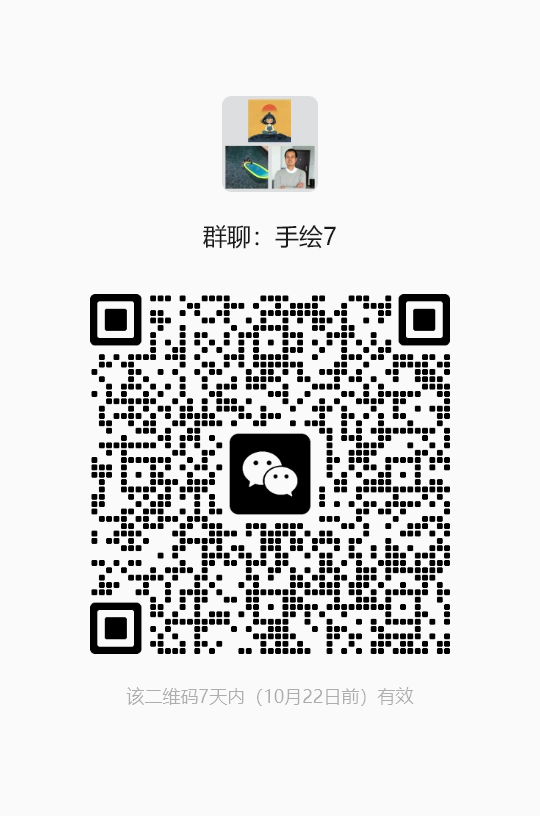
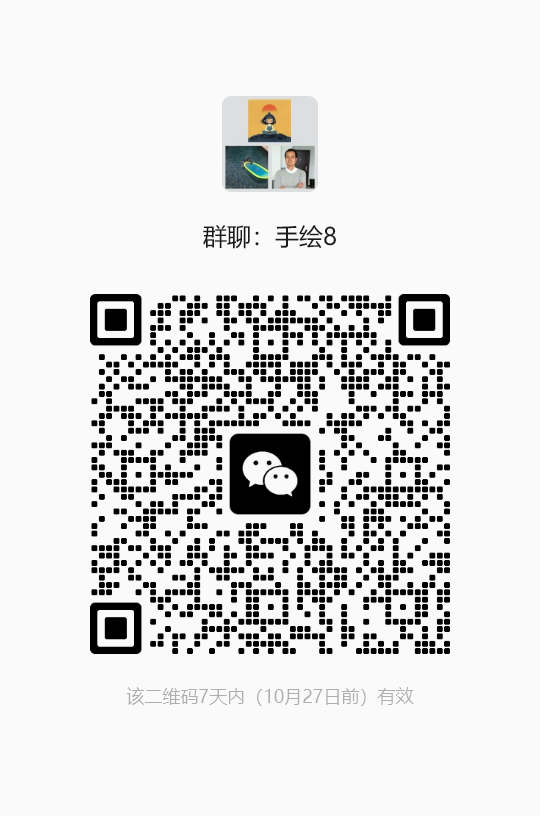
feat: update wechat group qr code to group 8 and enforce style trait purity rules

Changed region(s): [[0.1481, 0.337, 0.8296, 0.8272], [0.5926, 0.2757, 0.6222, 0.3064]]

diff --git a/scripts/import_manual_style.py b/scripts/import_manual_style.py
@@ -31,19 +31,42 @@ def parse_args() -> argparse.Namespace:
 
 
 def positive_traits(value: str) -> str:
-    """Keep only concrete positive traits for both metadata and prompting."""
+    """Keep only concrete positive traits for both metadata and prompting, stripping forbidden demo subject content."""
+    subject_leakage_patterns = [
+        r"[白黑红黄蓝绿米粉]\S*?(?:长裙|短裙|连衣裙|衬衫|风衣|T恤|衣服|背带裤)",
+        r"[黑金黄棕白]\S*?(?:短发|长发|马尾|卷发|发型)",
+        r"(?:侧身|回眸|侧脸|站姿|坐姿|奔跑|漫步|蹲下|招手)的?(?:自然)?(?:姿态|姿势|动态)?",
+        r"大面积\S*?(?:花田|花海|草地|植被|向日葵)",
+        r"(?:海湾|湖海|山峦|雪山|街道|马路|森林)\S*?(?:远景|中景|近景|层次)",
+        r"前景\S*?(?:轻微遮挡|虚化遮挡|花草遮挡)",
+        r"三分法构图人物偏[左右中]",
+        r"年轻[男女]性|年轻[男女]子",
+    ]
+    leakage_re = re.compile("|".join(subject_leakage_patterns))
+
     parts = [part.strip() for part in value.replace("。", "；").split("；")]
     cleaned = []
     for part in parts:
         if not part:
             continue
-        for marker in ("避免", "不要", "不准", "禁止"):
-            if marker in part:
-                part = part.split(marker, 1)[0]
-        part = re.sub(r"无(?:写实纹理|精细材质|真实纹理)[、，]?", "", part)
-        part = re.sub(r"[、，]\s*[、，]", "、", part).strip("、， ")
-        if part:
-            cleaned.append(part)
+        sub_clauses = re.split(r"[,，、]", part)
+        valid_sub = []
+        for sub in sub_clauses:
+            s = sub.strip()
+            if not s:
+                continue
+            for marker in ("避免", "不要", "不准", "禁止"):
+                if marker in s:
+                    s = s.split(marker, 1)[0]
+            s = re.sub(r"无(?:写实纹理|精细材质|真实纹理)[、，]?", "", s).strip("、， ")
+            if not s:
+                continue
+            if leakage_re.search(s):
+                print(f"[GUARD] 拦截示意图具体画面内容污染: {s}")
+                continue
+            valid_sub.append(s)
+        if valid_sub:
+            cleaned.append("、".join(valid_sub))
     return "；".join(cleaned)
 
 

diff --git a/skills/handdraw-style-prompter/scripts/prompt_style.py b/skills/handdraw-style-prompter/scripts/prompt_style.py
@@ -107,7 +107,7 @@ def resolve_style_entry(style_input: str, styles: list[dict]) -> tuple[dict, str
 
 def recommend_combination(theme: str, user_style: str | None, user_color: str | None) -> tuple[str, str, str]:
     """
-    Dynamic whole-library recommendation engine across all 365 styles and 36 theme colors.
+    Dynamic whole-library recommendation engine across all 366 styles and 36 theme colors.
     Note: In AI agent workflows (Codex, Antigravity, Claude Code), the LLM dynamically reasons
     and evaluates styles and colors at runtime. This function provides a robust, non-hardcoded
     heuristic scoring fallback for offline and CLI usage.
@@ -122,7 +122,7 @@ def recommend_combination(theme: str, user_style: str | None, user_color: str | 
     ngrams = [t[i:i+n] for n in (2, 3, 4) for i in range(len(t)-n+1)]
     words = re.findall(r'[a-zA-Z0-9]+|[\u4e00-\u9fa5]', t)
 
-    # 1. Dynamically resolve style from full 365 styles library
+    # 1. Dynamically resolve style from full 366 styles library
     if user_style:
         try:
             s_obj, final_style = resolve_style_entry(user_style, styles)

diff --git a/skills/handdraw-style-prompter/scripts/validate_library.py b/skills/handdraw-style-prompter/scripts/validate_library.py
@@ -37,12 +37,14 @@ def main() -> None:
     alias_data = json.loads(alias_file.read_text(encoding="utf-8"))
     legacy_to_new = alias_data.get("legacy_to_new", {})
     new_to_legacy = alias_data.get("new_to_legacy", {})
-    if len(legacy_to_new) != 365 or len(new_to_legacy) != 365:
-        fail("style_alias_map.json must contain 365 bidirectional mappings")
+    if len(legacy_to_new) != len(styles) or len(new_to_legacy) != len(styles):
+        fail("style_alias_map.json must cover every style bidirectionally")
+    if set(new_to_legacy) != {item["number"] for item in styles} or any(new_to_legacy.get(value) != key for key, value in legacy_to_new.items()):
+        fail("style aliases must resolve to the canonical style set and round-trip")
 
     total_styles = len(styles)
-    if total_styles != 365:
-        fail(f"expected 365 styles, got {total_styles}")
+    if total_styles < 365:
+        fail(f"expected at least the 365 baseline styles, got {total_styles}")
 
     CATEGORIES = ["FA", "FB", "FC", "FD", "FE", "FF", "FG", "FH", "FI"]
     cat_counts = {}

diff --git a/scripts/discourse_client.py b/scripts/discourse_client.py
@@ -899,7 +899,7 @@ def cli_main():
             Path(__file__).resolve().parent / "sync_to_static.py",
             Path(__file__).resolve().parents[1] / "scripts" / "sync_to_static.py",
             Path(__file__).resolve().parents[2] / "scripts" / "sync_to_static.py",
-            Path("E:/handraw-style/scripts/sync_to_static.py"),
+            Path(os.environ.get("HANDRAW_STYLE_ROOT", Path(__file__).resolve().parents[1])) / "scripts" / "sync_to_static.py",
         ]
         sync_script = None
         for c in candidates:

diff --git a/skills/community-share/scripts/discourse_client.py b/skills/community-share/scripts/discourse_client.py
@@ -899,7 +899,7 @@ def cli_main():
             Path(__file__).resolve().parent / "sync_to_static.py",
             Path(__file__).resolve().parents[1] / "scripts" / "sync_to_static.py",
             Path(__file__).resolve().parents[2] / "scripts" / "sync_to_static.py",
-            Path("E:/handraw-style/scripts/sync_to_static.py"),
+            Path(os.environ.get("HANDRAW_STYLE_ROOT", Path(__file__).resolve().parents[1])) / "scripts" / "sync_to_static.py",
         ]
         sync_script = None
         for c in candidates:

diff --git a/skills/handdraw-style-prompter/scripts/build_library.py b/skills/handdraw-style-prompter/scripts/build_library.py
@@ -658,8 +658,8 @@ checkRepositoryUpdate();
 
 def main() -> None:
     styles = parse_styles()
-    if len(styles) != 365:
-        raise SystemExit(f"Expected exactly 365 styles, parsed {len(styles)}")
+    if len(styles) < 365:
+        raise SystemExit(f"Expected at least the 365 baseline styles, parsed {len(styles)}")
     cat_counts: dict[str, int] = {}
     for item in styles:
         m = re.match(r"^([A-Za-z]{2})-(\d{3})$", item["number"])

diff --git a/SKILL.md b/SKILL.md
@@ -1,6 +1,6 @@
 ---
 name: handdraw-style-prompter
-description: Turn a 001–365 hand-drawn and realistic style number and image theme into bilingual prompts, using model capability data to decide when core traits and a numbered reference image are required.
+description: Turn a 001–366 hand-drawn and realistic style number and image theme into bilingual prompts, using model capability data to decide when core traits and a numbered reference image are required.
 ---
 
 # Hand-drawn Style Prompter
@@ -30,13 +30,13 @@ before handling the request. Use the hand-drawn style rules in
 resolution and prompt construction.
 
 When the user asks to design a poster, generate poster prompts, or create structured poster prompts, read and invoke
-[poster-prompt-generator](skills/poster-prompt-generator/SKILL.md), actively recommending cohesive style and theme color pairings from the visual style library (#001–#365) and theme color library (C-01–C-36).
+[poster-prompt-generator](skills/poster-prompt-generator/SKILL.md), actively recommending cohesive style and theme color pairings from the visual style library (#001–#366) and theme color library (C-01–C-36).
 
 When the user asks to design an article cover, video cover, generate cover prompts, create a WeChat official account cover, design an X/social cover for an article, or design a video cover from subtitle files/transcripts (例如“给文章做封面”、“文章封面设计”、“视频封面设计”、“视频封面”、“字幕做封面”、“公众号封面”、“X文章头图”), read and invoke
-[article-cover-designer](skills/article-cover-designer/SKILL.md) before handling the request. It extracts a ~200-word summary, infers target audience, sets the business scenario (article or video cover), injects style (#001–#365) and theme color (C-01–C-36), and applies the fixed prompt instruction ("先设计隐喻再出图，主标题明显，小字少或者没有小字。 其他你帮我设计。"；若是视频封面或输入字幕文件，自动注入“视频封面设计，网感强，吸引人眼球”)。
+[article-cover-designer](skills/article-cover-designer/SKILL.md) before handling the request. It extracts a ~200-word summary, infers target audience, sets the business scenario (article or video cover), injects style (#001–#366) and theme color (C-01–C-36), and applies the fixed prompt instruction ("先设计隐喻再出图，主标题明显，小字少或者没有小字。 其他你帮我设计。"；若是视频封面或输入字幕文件，自动注入“视频封面设计，网感强，吸引人眼球”)。
 
 When the user asks to blend, merge, or fuse two styles, generate a cross-media fusion prompt, or create a "character visual language × scene visual language" artwork (例如“【风格融合设计】”、“风格融合设计”、“风格融合”、“融合两种风格”、“角色与场景风格融合”、“双风格融合”、“跨媒介风格融合”), read and invoke
-[style-fusion-prompter](skills/style-fusion-prompter/SKILL.md) before handling the request. It supports fusing two style numbers (#001–#365), or a style number with a realistic style, optionally injects layouts (SC-*/IG-*) and theme colors (C-01–C-36), and applies the strict dual visual language coexistence template.
+[style-fusion-prompter](skills/style-fusion-prompter/SKILL.md) before handling the request. It supports fusing two style numbers (#001–#366), or a style number with a realistic style, optionally injects layouts (SC-*/IG-*) and theme colors (C-01–C-36), and applies the strict dual visual language coexistence template.
 
 When the user asks to design an IP character, build a Character Bible or IP Design Manual, generate standard IP cards (例如“IP形象设计”、“角色设计手册”、“设计三视图与周边”、“IP-01至IP-18卡片”), read and invoke
 [ip-designer](skills/ip-designer/SKILL.md) before handling the request. It supports 5 layers (Strategy, Character, Visual, System, Commercial) across 18 standard cards (6-card basic, 10-card standard, or 18-card full edition).
@@ -51,10 +51,10 @@ When the user asks to share creations, post to any forum category, publish image
 [community-share](skills/community-share/SKILL.md) before handling the request. It provides a dual publishing engine for both Discourse forum interaction (ID 4–9) and static gallery cloud deployment (syncing HTML, 365 styles, and WebP assets to tencent-vm / CDN with optional forum update announcements).
 
 When the user asks to add or import a named or text-defined visual style to the style library, register positive visual traits, or generate representative sample tiles for a new style (例如“添加画风”、“录入风格”、“新增手绘风格”、“自定义风格入库”), read and invoke
-[style-library-importer](skills/style-library-importer/SKILL.md) before handling the request. It processes style names and filtered positive traits, generates clean representative images, assigns the next style number, and updates metadata and contact sheets.
+[style-library-importer](skills/style-library-importer/SKILL.md) before handling the request. It processes style names and filtered positive traits, generates clean representative images, assigns the next style number, and updates metadata and contact sheets. 严格遵守特征提取铁律：严禁从示意图/参考图中解析提取任何具体人物、服装、动作、道具或场景地貌写入特征（traits），特征只保留纯粹的媒介、光影、色彩与艺术视觉语言。
 
 When the user supplies an X/Twitter tweet link and asks to scrape, import, or convert tweet AI styles or `--sref` images into the numbered style library (例如“抓取推文画风”、“推文风格入库”、“导入Twitter风格”、“把这条推特录入到风格库”), read and invoke
-[tweet-style-importer](skills/tweet-style-importer/SKILL.md) before handling the request. It automatically extracts full-resolution images, generates 4-grid reference and clean single tiles, configures mandatory reference passing, and rebuilds the library.
+[tweet-style-importer](skills/tweet-style-importer/SKILL.md) before handling the request. It automatically extracts full-resolution images, generates 4-grid reference and clean single tiles, configures mandatory reference passing, and rebuilds the library. 严格遵循内容解耦规范，严禁将推文原图的画面具体主体内容写入特征描述。
 
 When the user asks to add a new visual layout or composition structure to the layout gallery (such as social cards, infographics, comic storyboards, IP cards, or e-commerce layouts; 例如“添加排版图型”、“录入新版式”、“导入排版”、“新增Layout”), read and invoke
 [layout-library-importer](skills/layout-library-importer/SKILL.md) before handling the request. It losslessly converts the reference image to WebP, records category metadata, creates bilingual prompt files, and updates the layout gallery.
@@ -72,13 +72,13 @@ Default to creating prompts only. Do not call an image-generation tool unless th
 > [!IMPORTANT]
 > **【核心准则：每次由 AI 实时动态判断，严禁写死/机械套用】**
 > - **实时动态研判**：严禁在记忆、规则或提示词中维护任何“主题关键词 -> 固定风格编号/颜色编号”的静态死板映射（例如严禁一见节气/传统就推 268、一见自然就推 266、一见科技就推 011/054、一见生活就推 018）。
-> - **全库开放式匹配**：每次推荐必须由 AI 结合当前用户具体主题的深层语境、精神内核、视觉隐喻与画面构图，在全库 365 种视觉风格（#001–#365）与 36 种经典主题色（C-01–C-36）中进行**实时、开放式的审美推理与动态搭配**。
-> - **激发全库多样性**：同一个主题在不同设计视角下具备多维的美学可能性（如“菜园”既可以是水墨写意、也可以是田园木刻版画、粗粒油画棒、或包豪斯几何构成）。每次推荐都应根据具体切入点构思，充分展现全库 365 种画风与 36 种色彩的丰富生命力。
+> - **全库开放式匹配**：每次推荐必须由 AI 结合当前用户具体主题的深层语境、精神内核、视觉隐喻与画面构图，在全库 365 种视觉风格（#001–#366）与 36 种经典主题色（C-01–C-36）中进行**实时、开放式的审美推理与动态搭配**。
+> - **激发全库多样性**：同一个主题在不同设计视角下具备多维的美学可能性（如“菜园”既可以是水墨写意、也可以是田园木刻版画、粗粒油画棒、或包豪斯几何构成）。每次推荐都应根据具体切入点构思，充分展现全库 367 种画风与 36 种色彩的丰富生命力。
 > - **美学理由具象化**：AI 给出的美学推荐理由必须紧扣当前主题的视觉隐喻和画面构图，说明为什么该画风的笔触/质感与该色彩的情绪能完美传达这一主题，杜绝套话。
 
-1. **风格与主题色均未指定**：根据用户输入的主题语义、情感基调、受众与使用场景，由 AI 实时动态从 365 种视觉风格与 36 种经典单色库中推荐 1 组契合度最高的【风格编号 (#001–#365) + 主题色编号 (C-01–C-36)】组合。主题色数量不设死限，依据画面层次灵活决定单色统领、双色搭配（主色+点缀色）或三色调和，简述 1 句具象化美学推荐理由，并直接输出完整生图提示词（或执行出图）。
+1. **风格与主题色均未指定**：根据用户输入的主题语义、情感基调、受众与使用场景，由 AI 实时动态从 365 种视觉风格与 36 种经典单色库中推荐 1 组契合度最高的【风格编号 (#001–#366) + 主题色编号 (C-01–C-36)】组合。主题色数量不设死限，依据画面层次灵活决定单色统领、双色搭配（主色+点缀色）或三色调和，简述 1 句具象化美学推荐理由，并直接输出完整生图提示词（或执行出图）。
 2. **仅指定风格，未指定主题色**：严格保留用户指定的风格，根据该风格与画面主题，由 AI 实时动态推荐最协调的【主题色 (C-01–C-36)】搭配（可为单色或多色组合）。
-3. **仅指定主题色，未指定风格**：严格保留用户指定的主题色，根据色彩调性与画面主题，由 AI 实时动态推荐 1 款最契合的【视觉风格 (#001–#365)】搭配。
+3. **仅指定主题色，未指定风格**：严格保留用户指定的主题色，根据色彩调性与画面主题，由 AI 实时动态推荐 1 款最契合的【视觉风格 (#001–#366)】搭配。
 4. **两者皆指定**：完全遵照用户指定的内容输出。
 
 ## Style activation policy
@@ -119,7 +119,7 @@ This initialization applies only when this Skill is invoked for the first time i
 
 ## Inputs
 
-For style-only work, if the style number (`001`–`365`) is omitted, automatically recommend an optimal style and theme color combination based on theme semantics. For layout work, require a layout ID (`SC-001` or `IG-001`); if style and/or theme color are omitted, automatically recommend harmonious ones. Accept optional theme color (`C-01`–`C-36` or color name), aspect ratio, subject constraints, text requirements, and a mode. When the user requests a prompt (e.g. specifying a style and/or layout) without providing a theme, do NOT pause or halt to ask for a theme—immediately output the complete prompt with a clear placeholder (such as `【请在此输入画面主题，或在生图模型中垫入你的照片】` / `[Enter theme here, or attach your photo in the image AI]`). If a supplied number, layout ID, or color ID is invalid, ask the user to choose a valid indexed value; do not invent one. Do not add an aspect ratio when none was supplied.
+For style-only work, if the style number (`001`–`366`) is omitted, automatically recommend an optimal style and theme color combination based on theme semantics. For layout work, require a layout ID (`SC-001` or `IG-001`); if style and/or theme color are omitted, automatically recommend harmonious ones. Accept optional theme color (`C-01`–`C-36` or color name), aspect ratio, subject constraints, text requirements, and a mode. When the user requests a prompt (e.g. specifying a style and/or layout) without providing a theme, do NOT pause or halt to ask for a theme—immediately output the complete prompt with a clear placeholder (such as `【请在此输入画面主题，或在生图模型中垫入你的照片】` / `[Enter theme here, or attach your photo in the image AI]`). If a supplied number, layout ID, or color ID is invalid, ask the user to choose a valid indexed value; do not invent one. Do not add an aspect ratio when none was supplied.
 
 Users can browse `skills/handdraw-style-prompter/gallery/index.html` for numbered style contact sheets, `skills/handdraw-style-prompter/gallery/layouts.html` for layout thumbnails, and `skills/handdraw-style-prompter/gallery/colors.html` for classic monochrome theme colors. The authoritative style content is `styles_200_reorganized.md`; `skills/handdraw-style-prompter/references/styles.json` is a generated index and must be refreshed with `python skills/handdraw-style-prompter/scripts/build_library.py` after Markdown changes. Layout metadata is `skills/handdraw-style-prompter/references/layouts.json`; each entry's bilingual prompt file under `skills/handdraw-style-prompter/references/layouts/` is the authoritative layout content and the layout gallery is refreshed with `python skills/handdraw-style-prompter/scripts/build_layout_gallery.py`. Monochrome color metadata is `skills/handdraw-style-prompter/references/colors.json` and refreshed with `python skills/handdraw-style-prompter/scripts/build_color_gallery.py`.
 

diff --git a/skills/handdraw-style-prompter/SKILL.md b/skills/handdraw-style-prompter/SKILL.md
@@ -1,6 +1,6 @@
 ---
 name: handdraw-style-prompter
-description: Turn a 001–365 hand-drawn and realistic style number and image theme into bilingual prompts, using model capability data to decide when core traits and a numbered reference image are required.
+description: Turn a 001–366 hand-drawn and realistic style number and image theme into bilingual prompts, using model capability data to decide when core traits and a numbered reference image are required.
 ---
 
 # Hand-drawn Style Prompter
@@ -14,13 +14,13 @@ Default to creating prompts only. Do not call an image-generation tool unless th
 > [!IMPORTANT]
 > **【核心准则：每次由 AI 实时动态判断，严禁写死/机械套用】**
 > - **实时动态研判**：严禁在记忆、规则或提示词中维护任何“主题关键词 -> 固定风格编号/颜色编号”的静态死板映射（例如严禁一见节气/传统就推 268、一见自然就推 266、一见科技就推 011/054、一见生活就推 018）。
-> - **全库开放式匹配**：每次推荐必须由 AI 结合当前用户具体主题的深层语境、精神内核、视觉隐喻与画面构图，在全库 365 种视觉风格（#001–#365）与 36 种经典主题色（C-01–C-36）中进行**实时、开放式的审美推理与动态搭配**。
-> - **激发全库多样性**：同一个主题在不同设计视角下具备多维的美学可能性（如“菜园”既可以是水墨写意、也可以是田园木刻版画、粗粒油画棒、或包豪斯几何构成）。每次推荐都应根据具体切入点构思，充分展现全库 365 种画风与 36 种色彩的丰富生命力。
+> - **全库开放式匹配**：每次推荐必须由 AI 结合当前用户具体主题的深层语境、精神内核、视觉隐喻与画面构图，在全库 365 种视觉风格（#001–#366）与 36 种经典主题色（C-01–C-36）中进行**实时、开放式的审美推理与动态搭配**。
+> - **激发全库多样性**：同一个主题在不同设计视角下具备多维的美学可能性（如“菜园”既可以是水墨写意、也可以是田园木刻版画、粗粒油画棒、或包豪斯几何构成）。每次推荐都应根据具体切入点构思，充分展现全库 367 种画风与 36 种色彩的丰富生命力。
 > - **美学理由具象化**：AI 给出的美学推荐理由必须紧扣当前主题的视觉隐喻和画面构图，说明为什么该画风的笔触/质感与该色彩的情绪能完美传达这一主题，杜绝套话。
 
-1. **风格与主题色均未指定**：根据用户输入的主题语义、情感基调、受众与使用场景，由 AI 实时动态从 365 种视觉风格与 36 种经典单色库中推荐 1 组契合度最高的【风格编号 (#001–#365) + 主题色编号 (C-01–C-36)】组合。主题色数量不设死限，依据画面层次灵活决定单色统领、双色搭配（主色+点缀色）或三色调和，简述 1 句具象化美学推荐理由，并直接输出完整生图提示词（或执行出图）。
+1. **风格与主题色均未指定**：根据用户输入的主题语义、情感基调、受众与使用场景，由 AI 实时动态从 365 种视觉风格与 36 种经典单色库中推荐 1 组契合度最高的【风格编号 (#001–#366) + 主题色编号 (C-01–C-36)】组合。主题色数量不设死限，依据画面层次灵活决定单色统领、双色搭配（主色+点缀色）或三色调和，简述 1 句具象化美学推荐理由，并直接输出完整生图提示词（或执行出图）。
 2. **仅指定风格，未指定主题色**：严格保留用户指定的风格，根据该风格与画面主题，由 AI 实时动态推荐最协调的【主题色 (C-01–C-36)】搭配（可为单色或多色组合）。
-3. **仅指定主题色，未指定风格**：严格保留用户指定的主题色，根据色彩调性与画面主题，由 AI 实时动态推荐 1 款最契合的【视觉风格 (#001–#365)】搭配。
+3. **仅指定主题色，未指定风格**：严格保留用户指定的主题色，根据色彩调性与画面主题，由 AI 实时动态推荐 1 款最契合的【视觉风格 (#001–#366)】搭配。
 4. **两者皆指定**：完全遵照用户指定的内容输出。
 
 ## Style activation policy
@@ -61,7 +61,7 @@ This initialization applies only when this Skill is invoked for the first time i
 
 ## Inputs
 
-For style-only work, if the style number (`001`–`365`) is omitted, automatically recommend an optimal style and theme color combination based on theme semantics. For layout work, require a layout ID (`SC-001` or `IG-001`); if style and/or theme color are omitted, automatically recommend harmonious ones. Accept optional theme color (`C-01`–`C-36` or color name), aspect ratio, subject constraints, text requirements, and a mode. When the user requests a prompt (e.g. specifying a style and/or layout) without providing a theme, do NOT pause or halt to ask for a theme—immediately output the complete prompt with a clear placeholder (such as `【请在此输入画面主题，或在生图模型中垫入你的照片】` / `[Enter theme here, or attach your photo in the image AI]`). If a supplied number, layout ID, or color ID is invalid, ask the user to choose a valid indexed value; do not invent one. Do not add an aspect ratio when none was supplied.
+For style-only work, if the style number (`001`–`366`) is omitted, automatically recommend an optimal style and theme color combination based on theme semantics. For layout work, require a layout ID (`SC-001` or `IG-001`); if style and/or theme color are omitted, automatically recommend harmonious ones. Accept optional theme color (`C-01`–`C-36` or color name), aspect ratio, subject constraints, text requirements, and a mode. When the user requests a prompt (e.g. specifying a style and/or layout) without providing a theme, do NOT pause or halt to ask for a theme—immediately output the complete prompt with a clear placeholder (such as `【请在此输入画面主题，或在生图模型中垫入你的照片】` / `[Enter theme here, or attach your photo in the image AI]`). If a supplied number, layout ID, or color ID is invalid, ask the user to choose a valid indexed value; do not invent one. Do not add an aspect ratio when none was supplied.
 
 Users can browse `gallery/index.html` for numbered style contact sheets, `gallery/layouts.html` for layout thumbnails, and `gallery/colors.html` for classic monochrome theme colors. The authoritative style content is `../../styles_200_reorganized.md`; `references/styles.json` is a generated index and must be refreshed with `python scripts/build_library.py` after Markdown changes. Layout metadata is `references/layouts.json`; each entry's bilingual prompt file under `references/layouts/` is the authoritative layout content and the layout gallery is refreshed with `python scripts/build_layout_gallery.py`. Monochrome color metadata is `references/colors.json` and refreshed with `python scripts/build_color_gallery.py`.
 

diff --git a/README_en.md b/README_en.md
@@ -12,7 +12,7 @@
 
 > **Struggling to describe art styles? Trouble structuring visual layouts? Simply pick an index number to generate highly recognizable AI image prompts.**
 
-This repository curates **365 distinct hand-drawn and realistic visual styles** (supporting both `FA`~`FI` category IDs and legacy `001`–`365`), **167 composition layout patterns** (`SC-*` Social Cards, `IG-*` Infographics, `SB-*` Comic Storyboards, `IP-*` IP Design, `EC-*` E-commerce), and **36 curated classic monochrome colors** (`C-01`–`C-36`).
+This repository curates **365 distinct hand-drawn and realistic visual styles** (supporting both `FA`~`FI` category IDs and legacy `001`–`366`), **167 composition layout patterns** (`SC-*` Social Cards, `IG-*` Infographics, `SB-*` Comic Storyboards, `IP-*` IP Design, `EC-*` E-commerce), and **36 curated classic monochrome colors** (`C-01`–`C-36`).
 
 Whether you are crafting social media post covers, educational infographics, architectural comparisons, or multi-panel narrative comics, you no longer need to memorize obscure art history terminology or struggle with complex compositions. **Simply choose a style number, layout ID, and theme color, supply your topic, and instantly get verified, high-fidelity bilingual prompts ready to paste into Midjourney, DALL-E 3, Flux, Stable Diffusion, or any other image generator.**
 
@@ -35,7 +35,7 @@ Whether you are crafting social media post covers, educational infographics, arc
 
 | Creator Pain Point | How This Library Solves It |
 | :--- | :--- |
-| **Vague style descriptions lead to style drift** | **Numbered Indexing**: 365 systematically categorized visual styles (dual-indexed by FA~FI categories and 001–365), eliminating guess-and-pray prompting. |
+| **Vague style descriptions lead to style drift** | **Numbered Indexing**: 367 systematically categorized visual styles (dual-indexed by FA~FI categories and 001–366), eliminating guess-and-pray prompting. |
 | **Monotonous composition; hard to format complex graphics** | **167 Layout Compositions**: 23 Social Cards, 36 Infographics, 71 Comic Storyboards, 13 IP Design, 24 E-commerce ready out-of-the-box. |
 | **Chaotic color palettes lack a cohesive tonal mood** | **36 Curated Monochrome Colors**: Klein Blue, Sage Green, Hermes Orange, Payne's Grey, etc., setting pure and sophisticated tones with one click. |
 | **Text disconnects from art; awkward typography placement** | **Dual-Mode Workflow**: Seamlessly toggle between "Pure-Image Mode" (pure illustration) and "Graphic-Text Mode" (unified visual-textual composition). |
@@ -190,7 +190,7 @@ The illustration below shows text integrated harmoniously with the visual compos
 
 By default, the Skill crafts copyable prompts. When you explicitly request image generation, it optimizes the output based on verified model capabilities:
 
-- **Explicitly Calibrated Models (e.g., `gpt-image-2`)**: Full activation hierarchy for all 365 styles: Style/Author Name → Positive Core Traits → Reference Image only when traits alone cannot reliably trigger the style, avoiding unnecessary image passing that might over-constrain the composition.
+- **Explicitly Calibrated Models (e.g., `gpt-image-2`)**: Full activation hierarchy for all 366 styles: Style/Author Name → Positive Core Traits → Reference Image only when traits alone cannot reliably trigger the style, avoiding unnecessary image passing that might over-constrain the composition.
 - **Third-Party & General Models (Midjourney, Flux, Stable Diffusion, Imagen, Gemini, etc.)**: Employs the rock-solid **Reference Image Fallback** strategy. The Skill provides a 1024x1024 4-grid standard reference image or file path, ensuring 100% faithful reproduction of linework, texture, and color palette without prompt drift.
 - **Open for Community Benchmarks**: Capability definitions reside in `skills/handdraw-style-prompter/references/model_capabilities.json`. Pull requests for other model evaluations are warmly welcomed!
 
@@ -208,12 +208,12 @@ Style: FH-039 (193), Theme: Tang Dynasty Night Banquet
 
 ## Featured Styles Preview
 
-Here is a contact sheet preview of featured hand-drawn illustration styles (FA-001–FA-016, formerly 001–016):
+Here is a contact sheet preview of featured hand-drawn illustration styles (FA-001–FA-016, formerly 001–366):
 
 ![Featured Styles Preview (FA-001–FA-016)](images/A_001-016.webp)
 
-- 🖼 **[👉 Browse All Style Sheets (365 Styles Visual Contact Sheets, indexed by FA~FI / 001–365)](STYLES_en.md)**
-- 📄 **[View Detailed Style Metadata (365 Styles Table & Core Traits)](styles_200_reorganized.md)**
+- 🖼 **[👉 Browse All Style Sheets (366 Styles Visual Contact Sheets, indexed by FA~FI / 001–366)](STYLES_en.md)**
+- 📄 **[View Detailed Style Metadata (366 Styles Table & Core Traits)](styles_200_reorganized.md)**
 - 💻 *(For offline interactive search and enlargement, open `skills/handdraw-style-prompter/gallery/index.html` in your local browser)*
 
 ---

diff --git a/skills/community-share/SKILL.md b/skills/community-share/SKILL.md
@@ -1,6 +1,6 @@
 ---
 name: community-share
-description: 通用手绘风社区发帖与静态页面/资产发布 Skill。打通 handraw-style.com (Discourse) 官方论坛账号系统与静态画廊发布系统。涵盖双重能力：(1) 全板块论坛发帖与管理（创作交流、好用的工具、综合大厅、运营与变现、实战作品与爆款、手绘skill）：支持发布通用长帖、出版级手绘提示词卡片、自动配图直传短链、回帖、帖子查询与删除；(2) 风格画廊与静态资产一键部署上云（index.html、tutorials.html、assets.html、365种画风WebP、色彩/版式元数据）与论坛联动公告。触发词：手绘风发帖, 社区发帖, 论坛发帖, 发到论坛, 发到社区, 发布帖子, 分享作品, 手绘提示词分享, 查看我的帖子, 删除帖子, 发布静态页面到社区, 发布静态页, 同步画廊, 更新网站, 部署静态页, 画廊发布.
+description: 通用手绘风社区发帖与静态页面/资产发布 Skill。打通 handraw-style.com (Discourse) 官方论坛账号系统与静态画廊发布系统。涵盖双重能力：(1) 全板块论坛发帖与管理（创作交流、好用的工具、综合大厅、运营与变现、实战作品与爆款、手绘skill）：支持发布通用长帖、出版级手绘提示词卡片、自动配图直传短链、回帖、帖子查询与删除；(2) 风格画廊与静态资产一键部署上云（index.html、tutorials.html、assets.html、366 种画风WebP、色彩/版式元数据）与论坛联动公告。触发词：手绘风发帖, 社区发帖, 论坛发帖, 发到论坛, 发到社区, 发布帖子, 分享作品, 手绘提示词分享, 查看我的帖子, 删除帖子, 发布静态页面到社区, 发布静态页, 同步画廊, 更新网站, 部署静态页, 画廊发布.
 ---
 
 # HandRaw Community Publisher & Manager (手绘风社区发帖与静态页面发布中枢)
@@ -185,7 +185,7 @@ python scripts/discourse_client.py reply \
    - 必须字段：`type="composer"`, `synchronous="true"`, `file=<二进制流>`。
    - 成功后返回 `short_url`（如 `upload://xxx.webp`），Discourse 前端会自动解析为带 Lightbox 灯箱缩放的高清视图。
 3. **静态部署增量安全机制**：
-   - 自动跳过 `individual_backup` 等历史目录，只同步有效 365 种画风和自建资产。
+   - 自动跳过 `individual_backup` 等历史目录，只同步有效 366 种画风和自建资产。
    - 上传后自动触发 Nginx 软链接补齐 (`ln -sfn`)，保证 `img.handraw-style.com`、`static.handraw-style.com` 与主站即时生效。
 4. **Discourse 权限控制规则**：
    - 标题长度：必须 $\ge 5$ 个字符。

diff --git a/skills/poster-prompt-generator/SKILL.md b/skills/poster-prompt-generator/SKILL.md
@@ -10,8 +10,8 @@ description: 专门生成极简结构化 AI 海报提示词的专业设计技能
 > [!IMPORTANT]
 > **【核心准则：全量动态审美决策，严禁写死/机械套用】**
 > - **AI 每次实时动态研判**：严禁维护或套用任何“主题关键词 -> 固定风格编号/颜色编号”的静态死板映射（例如严禁一见节气/传统就推 268、一见自然就推 266、一见科技就推 011/054、一见生活就推 018）。
-> - **全库开放式匹配**：海报风格与色彩的搭配绝非查表！每次必须由 AI 结合当前海报主题的深层语境、精神内核、视觉隐喻与画面构图，在全库 365 种视觉风格（#001–#365）与 36 种经典主题色（C-01–C-36）中进行**实时、开放式的审美推理与动态搭配**。
-> - **激发全库多样性**：同一个主题在不同设计视角下具备多维的美学可能性（如“菜园”既可以是水墨写意、也可以是田园木刻版画、粗粒油画棒、或包豪斯几何构成）。每次推荐都应根据具体切入点构思，充分展现全库 365 种画风与 36 种色彩的丰富生命力。
+> - **全库开放式匹配**：海报风格与色彩的搭配绝非查表！每次必须由 AI 结合当前海报主题的深层语境、精神内核、视觉隐喻与画面构图，在全库 365 种视觉风格（#001–#366）与 36 种经典主题色（C-01–C-36）中进行**实时、开放式的审美推理与动态搭配**。
+> - **激发全库多样性**：同一个主题在不同设计视角下具备多维的美学可能性（如“菜园”既可以是水墨写意、也可以是田园木刻版画、粗粒油画棒、或包豪斯几何构成）。每次推荐都应根据具体切入点构思，充分展现全库 366 种画风与 36 种色彩的丰富生命力。
 > - **美学理由具象化**：AI 给出的美学推荐理由必须紧扣当前海报主题的视觉隐喻和画面构图，说明为什么该画风的笔触/质感与该色彩的情绪能完美传达这一主题，杜绝套话。
 
 新一代生图模型（如 GPT Image 2/2.5）在理解了业务场景、受众、渠道和审美风格后，具备极强的原生自主构图能力。**海报提示词不需要长篇大论描写物体细节、机位与光斑，只需精准提供核心业务与设计字段**：
